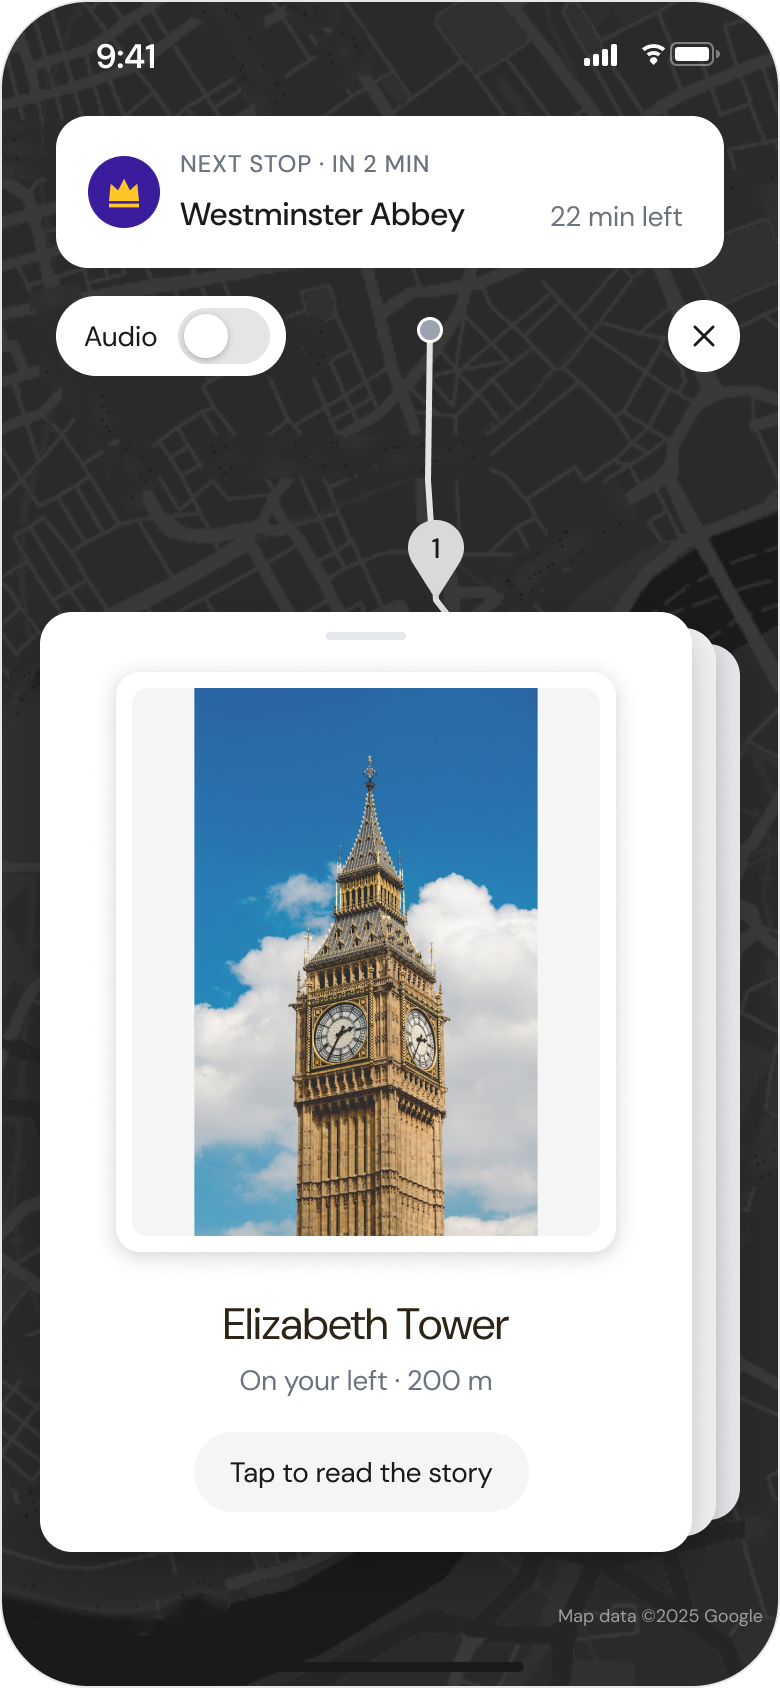
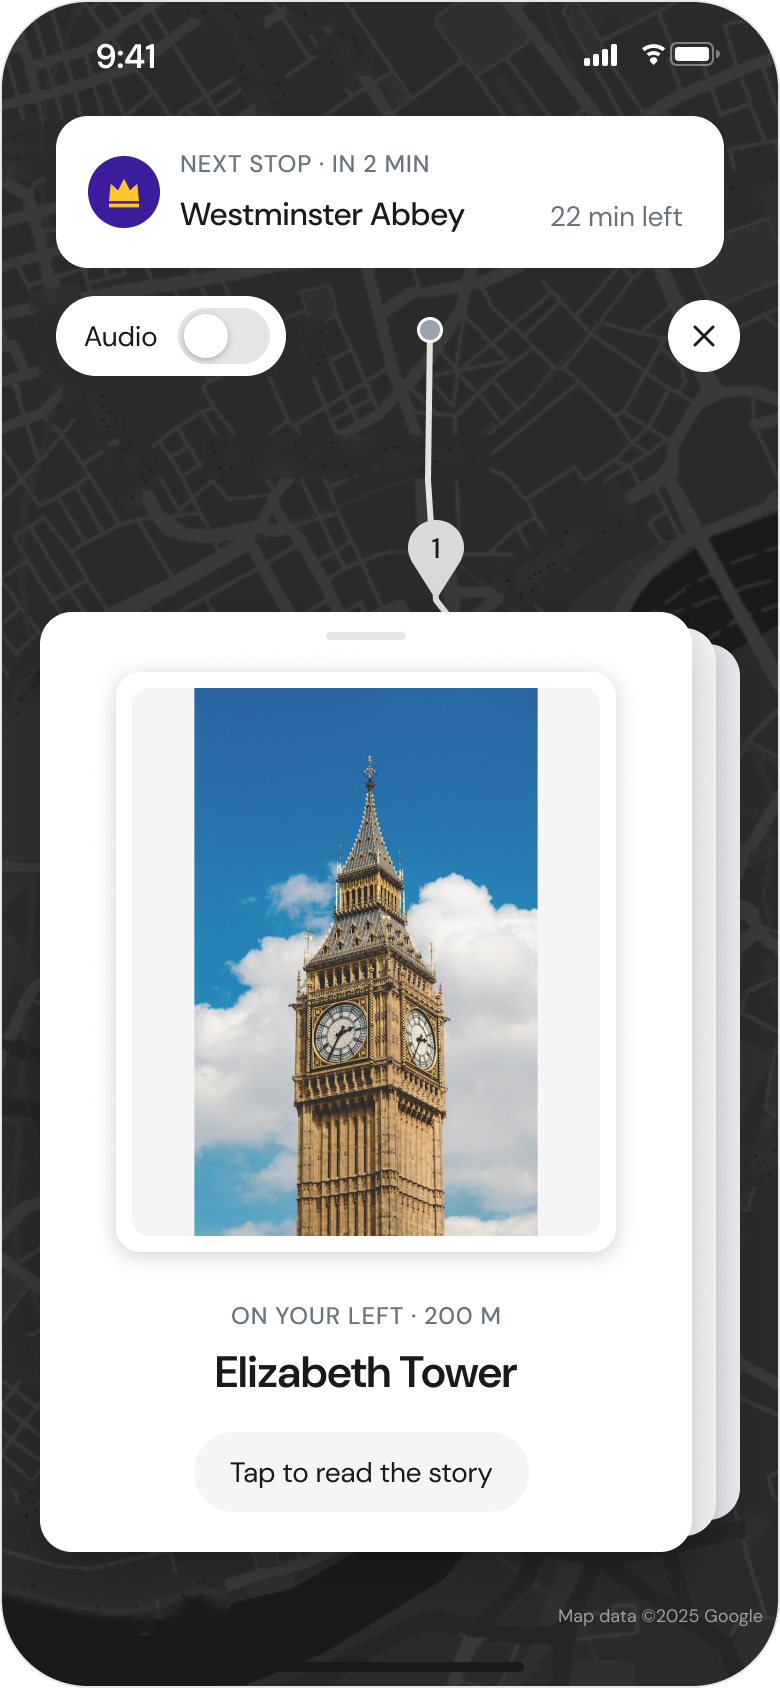
Give the open postcard the same type as the mini card
The postcard front and back now use the mini card's style: an uppercase
grey eyebrow ("ON YOUR LEFT · 200 M") above a bold landmark name in the
main text colour. On the front, the eyebrow moves above the name.

Figma 04d frames, the clean export screens, testing slide 5 and every
mockup are updated to match. v1 is unchanged.

Claude-Session: https://claude.ai/code/session_01PjGD56cr8Psn7ggGxxxvdH

Changed region(s): [[0.2769, 0.7701, 0.6769, 0.8318]]

diff --git a/App/Web_App/templates/v2/tour.html b/App/Web_App/templates/v2/tour.html
@@ -6,7 +6,7 @@
     <meta name="theme-color" content="#2a2a2a">
     <title>Ride - PassingBy</title>
     <link rel="stylesheet" href="/static/v2/css/style.css?v=7">
-    <link rel="stylesheet" href="/static/v2/css/v2.css?v=8">
+    <link rel="stylesheet" href="/static/v2/css/v2.css?v=9">
 </head>
 <body class="v2-ride-body">
     <!-- v2 ride. Figma: "04d · In-ride map — Final direction, postcard version".
@@ -66,8 +66,8 @@
                     <div class="v2-pc-face v2-pc-front">
                         <span class="v2-handle" aria-hidden="true"></span>
                         <div class="v2-pc-mount"><div class="v2-pc-photo"><img id="pc-img" alt=""></div></div>
+                        <span class="v2-eyebrow v2-pc-where" id="pc-where"></span>
                         <p class="v2-pc-name" id="pc-name"></p>
-                        <p class="v2-pc-where" id="pc-where"></p>
                         <span class="v2-pc-pill">Tap to read the story</span>
                     </div>
                     <div class="v2-pc-face v2-pc-back">
@@ -86,7 +86,7 @@
     <script>const GOOGLE_MAPS_KEY = "{{ google_maps_key }}";</script>
     <script src="/static/v2/js/editions.js?v=1"></script>
     <script src="/static/v2/js/map_pins.js?v=1"></script>
-    <script src="/static/v2/js/tour_logic.js?v=22"></script>
+    <script src="/static/v2/js/tour_logic.js?v=23"></script>
     <script src="https://maps.googleapis.com/maps/api/js?key={{ google_maps_key }}&libraries=geometry&callback=initMap" async defer></script>
 </body>
 </html>

diff --git a/App/Web_App/static/v2/js/tour_logic.js b/App/Web_App/static/v2/js/tour_logic.js
@@ -316,7 +316,7 @@ function onLandmarkTriggered(idx) {
 
 function refreshCurrentText() {
     if (ride.deckOpen) {
-        $('pc-where').textContent = whereLine(ride.current, false);
+        $('pc-where').textContent = whereLine(ride.current, true);
         $('pc-back-eyebrow').textContent = whereLine(ride.current, true);
     } else if (!$('mini-card').hidden) {
         $('mini-eyebrow').textContent = whereLine(ride.current, true);
@@ -560,7 +560,7 @@ function fillPostcard(idx) {
     ride.current = idx;
     $('pc-name').textContent = lm.name;
     $('pc-back-name').textContent = lm.name;
-    $('pc-where').textContent = whereLine(idx, false);
+    $('pc-where').textContent = whereLine(idx, true);
     $('pc-back-eyebrow').textContent = whereLine(idx, true);
     $('pc-story').textContent = lm.script || 'No story for this landmark yet.';
     $('pc-story').scrollTop = 0;

diff --git a/App/Web_App/static/v2/css/v2.css b/App/Web_App/static/v2/css/v2.css
@@ -930,18 +930,19 @@ html:has(.v2-ride-body),
   display: block;
 }
 
-.v2-pc-name {
+/* Same type as the minimised card: uppercase eyebrow, bold name */
+.v2-pc-where {
   margin-top: 18px;
-  font-size: 22px;
-  line-height: 1.25;
-  color: #2c2416;
+  color: var(--text-secondary);
   text-align: center;
 }
 
-.v2-pc-where {
+.v2-pc-name {
   margin-top: 4px;
-  font-size: 14px;
-  color: var(--text-secondary);
+  font-size: 22px;
+  font-weight: 600;
+  line-height: 1.2;
+  color: var(--text-primary);
   text-align: center;
 }
 

diff --git a/docs/design/handoff-in-ride-map.md b/docs/design/handoff-in-ride-map.md
@@ -85,7 +85,7 @@ language (white card, Satoshi, no cream or vintage fonts).
 | State | What's on screen | How you get there |
 |---|---|---|
 | 1 · Minimised | Same as the main version | Swipe down from the front or the back of the postcard |
-| 2 · Postcard front | Photo in a white mount (whole, `object-fit: contain`), name, "On your left · 200 m", "Tap to read the story" | Swipe up on the mini card, or tap a landmark pin |
+| 2 · Postcard front | Photo in a white mount (whole, `object-fit: contain`), "ON YOUR LEFT · 200 M" eyebrow, bold name (same type as the mini card), "Tap to read the story" | Swipe up on the mini card, or tap a landmark pin |
 | 3 · Postcard back | Story text, the photo shrunk into a stamp top-right, "Tap to flip back" | Tap anywhere on the card front |
 
 - Tap anywhere on the card flips it (the current code already does this on
